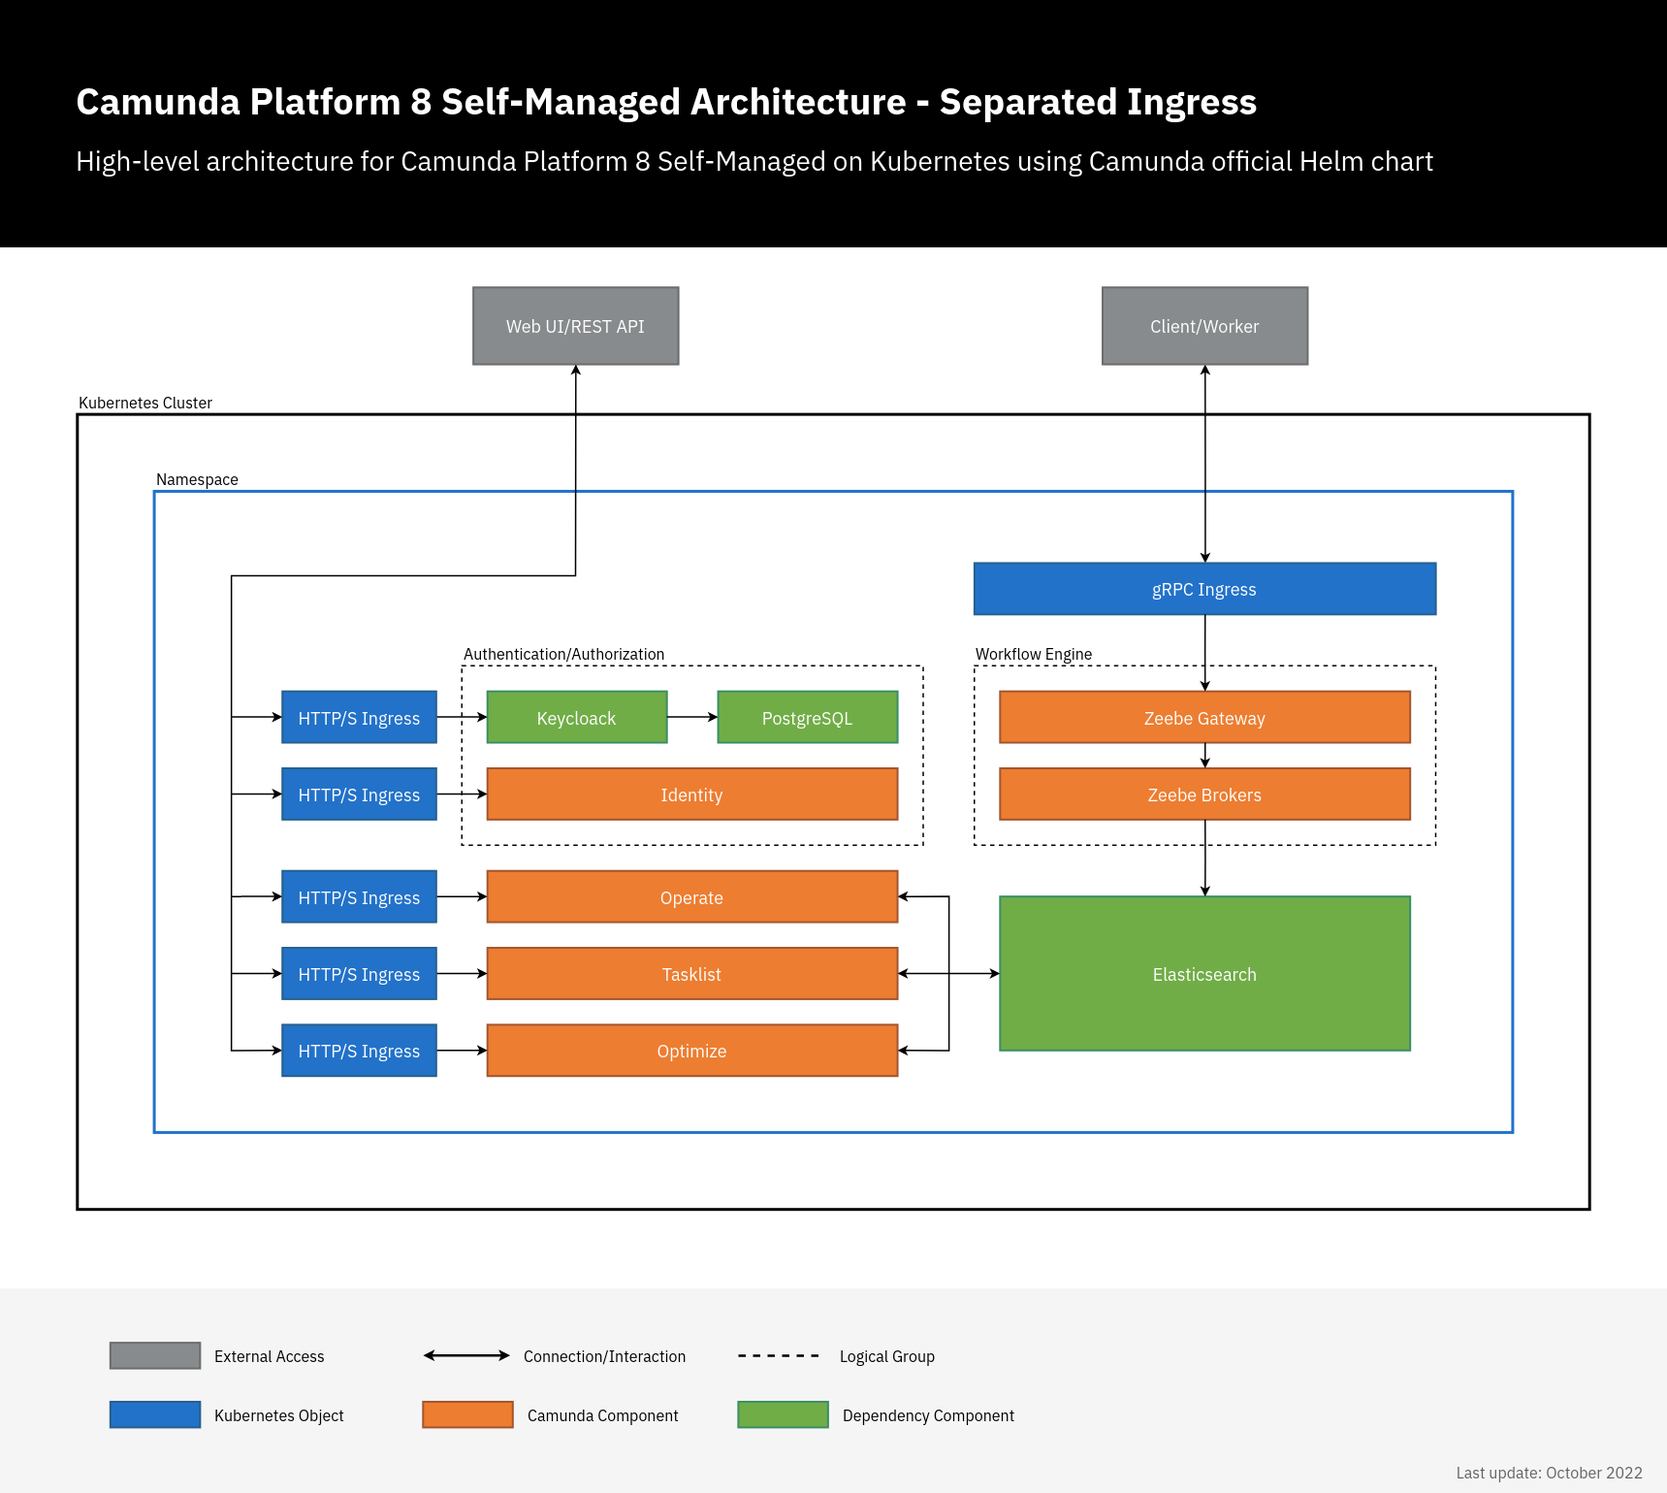
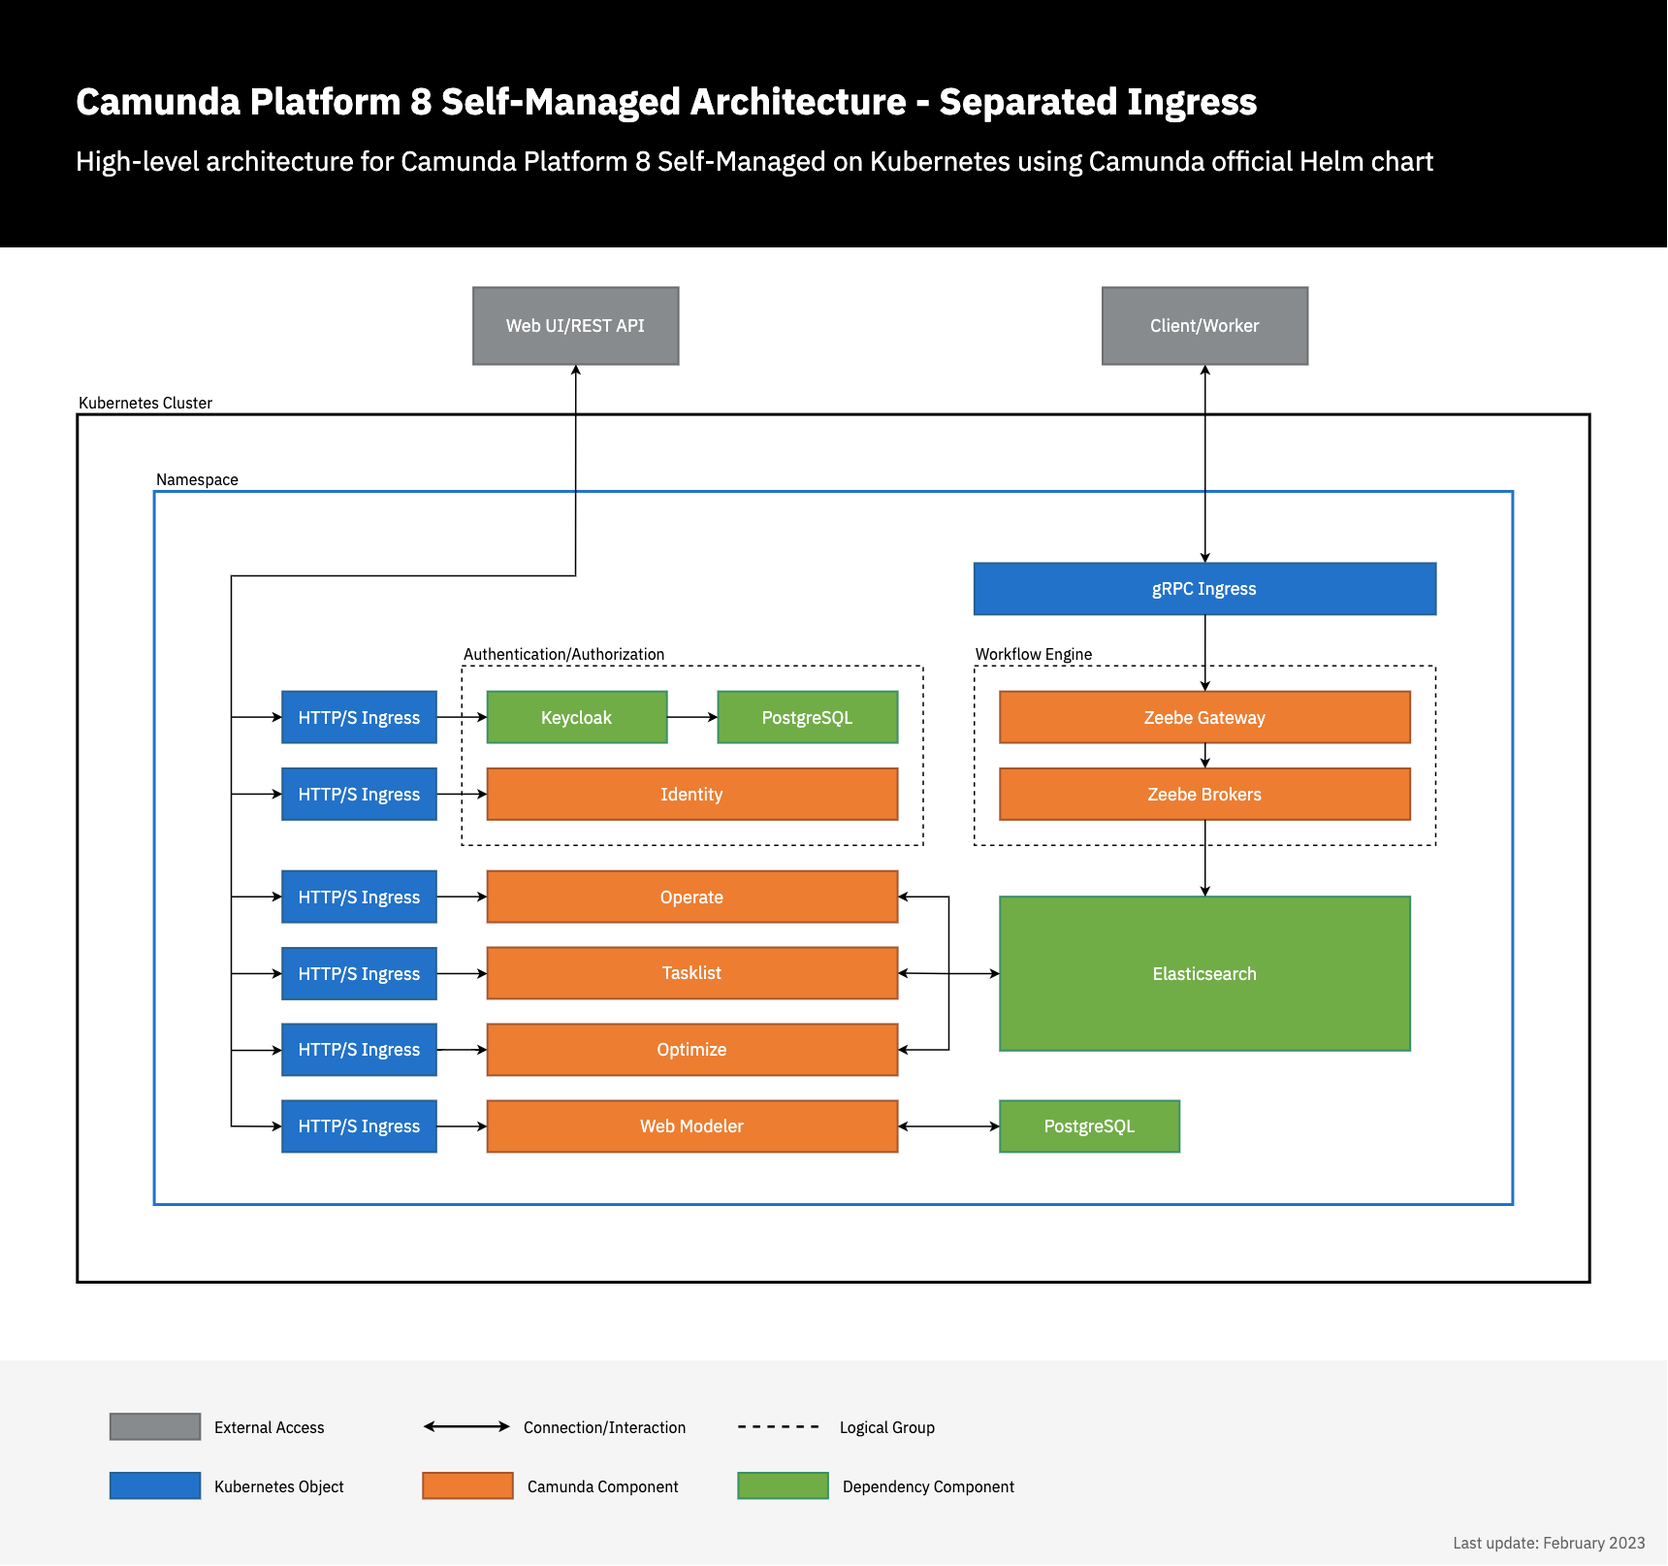
docs(self-managed): include Web Modeler in docs on Helm/Kubernetes

diff --git a/docs/self-managed/platform-deployment/helm-kubernetes/deploy.md b/docs/self-managed/platform-deployment/helm-kubernetes/deploy.md
@@ -15,18 +15,20 @@ Helm also provides dependency management between charts, meaning that charts can
 
 ## Components installed by the Helm charts
 
-By default, the following charts will be installed as part of Camunda Platform 8 Self-Managed:
+The following charts will be installed as part of Camunda Platform 8 Self-Managed:
 
-- **Zeebe**: Deploys a Zeebe Cluster with three brokers using the `camunda/zeebe` docker image.
+- **Zeebe**: Deploys a Zeebe Cluster with three brokers using the `camunda/zeebe` Docker image.
 - **Zeebe Gateway**: Deploys the standalone Zeebe Gateway with two replicas.
 - **Operate**: Deploys Operate, which connects to an existing Elasticsearch.
 - **Tasklist**: Deploys the Tasklist component to work with user tasks.
 - **Optimize**: Deploys the Optimize component to analyze the historic process executions.
 - **Identity**: Deploys the Identity component responsible for authentication and authorization.
 - **Elasticsearch**: Deploys an Elasticsearch cluster with two nodes.
+- **Web Modeler** [<span class="badge badge--beta">Beta</span>](../../../../reference/early-access#beta): Deploys the Web Modeler component that allows you to model BPMN processes in a collaborative way.
+  - _Note_: The chart is disabled by default and needs to be [enabled explicitly](#installing-web-modeler-beta).
 
-:::note Web Modeler & Connectors
-We do not provide a Helm chart for Web Modeler and Connectors in Self-Managed yet.
+:::note Connectors
+We do not provide a Helm chart for Connectors in Self-Managed yet.
 :::
 
 ![Camunda Platform 8 Self-Managed Architecture Diagram](../../platform-architecture/assets/camunda-platform-8-self-managed-architecture-diagram-combined-ingress.png)
@@ -63,16 +65,18 @@ helm install <RELEASE_NAME> camunda/camunda-platform
 ```
 
 :::note
-Change &gt;RELEASE_NAME&lt; with a name of your choice.
+Replace &lt;RELEASE_NAME&gt; with a name of your choice.
 
-Also, notice that you can add the `-n` flag to specify in which Kubernetes namespace the components should be installed.
+You can also add the `-n` flag to specify in which Kubernetes namespace the components should be installed.
+
+The command does not install Web Modeler by default. To enable Web Modeler, refer to the [installation instructions](#installing-web-modeler-beta) below.
 :::
 
 Notice that this Kubernetes cluster can have services which are already running; Camunda components are simply installed as another set of services.
 
 Installing all the components in a cluster requires all Docker images to be downloaded to the remote cluster. Depending on which Cloud provider you are using, the amount of time it will take to fetch all the images will vary.
 
-Review the progress of your deployment by checking if the Kubernetes PODs are up and running with the following:
+Review the progress of your deployment by checking if the Kubernetes pods are up and running with the following:
 
 ```
 kubectl get pods
@@ -97,7 +101,7 @@ elasticsearch-master-0                          0/1     Pending             0   
 elasticsearch-master-1                          0/1     Init:0/1            0          4s
 ```
 
-Review the progress of your deployment by checking if the Kubernetes PODs are up and running with the following:
+Review the progress of your deployment by checking if the Kubernetes pods are up and running with the following:
 
 ```
 kubectl get pods
@@ -112,6 +116,94 @@ elasticsearch-master-0                                 1/1     Running   0      
 <RELEASE_NAME>-zeebe-0                                 1/1     Running   0          4m6s
 <RELEASE_NAME>-tasklist-XXX                            1/1     Running   0          4m6s
 <RELEASE_NAME>-zeebe-gateway                           1/1     Running   0          4m6s
+```
+
+### Installing Web Modeler (Beta)
+
+:::caution Beta Offering
+Web Modeler Self-Managed is currently offered as a [beta release](../../../../reference/early-access#beta)
+with limited availability for enterprise customers only. It is not recommended for production use and there is no maintenance service guaranteed.
+Special [terms & conditions](https://camunda.com/legal/terms/camunda-platform/camunda-platform-8-self-managed/) apply.
+However, we encourage you to provide feedback via your designated support channel or the [Camunda Forum](https://forum.camunda.io/).
+:::
+
+To install the Camunda Helm chart with Web Modeler enabled, follow the steps below.
+
+#### Create image pull secret
+
+The Docker images for Web Modeler are not publicly accessible, but available to enterprise customers only from Camunda's private Docker registry.
+To enable Kubernetes to pull the images from this registry, you'll first need to [create an image pull secret](https://kubernetes.io/docs/concepts/containers/images/#specifying-imagepullsecrets-on-a-pod) using the credentials you received from Camunda:
+
+```bash
+kubectl create secret docker-registry <REGISTRY_SECRET_NAME> \
+  --docker-server=registry.camunda.cloud \
+  --docker-username=<DOCKER_USER> \
+  --docker-password=<DOCKER_PASSWORD> \
+  --docker-email=<DOCKER_EMAIL>
+```
+
+:::note
+Replace `<REGISTRY_SECRET_NAME>` with a name of your choice and `<DOCKER_USER>`, `<DOCKER_PASSWORD>`, and `<DOCKER_EMAIL>` with your credentials.
+
+The secret must be created in the same Kubernetes namespace you will install the Helm chart in. You can use the `-n` flag to specify a namespace.
+:::
+
+Alternatively, you can create an image pull secret [from your Docker configuration file](https://kubernetes.io/docs/tasks/configure-pod-container/pull-image-private-registry/#registry-secret-existing-credentials).
+
+#### Configure Web Modeler
+
+To set up Web Modeler, you need to provide the following required configuration values (all available configuration options are described in more detail in the Helm chart's [README](https://github.com/camunda/camunda-platform-helm/tree/main/charts/camunda-platform#web-modeler-beta) file):
+
+- Enable Web Modeler with `web-modeler.enabled: true` (it is disabled by default).
+- Configure the previously created [image pull secret](#create-image-pull-secret) in `web-modeler.image.pullSecrets`.
+- Configure your SMTP server by providing the values under `web-modeler.restapi.mail`.
+  - Web Modeler requires an SMTP server to send notification emails to users.
+
+We recommend to specify these values in a YAML file that you pass to the `helm install` command. A minimum configuration file would look like this:
+
+```yaml
+web-modeler:
+  enabled: true
+  image:
+    pullSecrets:
+      # replace with the name of the previously created secret
+      - name: <REGISTRY_SECRET_NAME>
+  restapi:
+    mail:
+      smtpHost: smtp.example.com
+      smtpPort: 587
+      smtpUser: user
+      smtpPassword: secret
+      # email address to be displayed as sender of emails from Web Modeler
+      fromAddress: no-reply@example.com
+```
+
+#### Optional: Configure external database
+
+Web Modeler requires a PostgreSQL database as persistent data storage (other database systems are currently not supported).
+By default, a new PostgreSQL instance will be installed as part of the Helm release (using the [PostgreSQL Helm chart](https://github.com/bitnami/charts/tree/main/bitnami/postgresql) by Bitnami as a dependency).
+Alternatively, you can configure a connection to an (existing) external database:
+
+```yaml
+web-modeler:
+  postgresql:
+    # disables the PostgreSQL chart dependency
+    enabled: false
+  restapi:
+    externalDatabase:
+      host: postgres.example.com
+      port: 5432
+      database: modeler-db
+      user: modeler-user
+      password: secret
+```
+
+#### Install the Helm chart
+
+Assuming that you have saved your configuration in `modeler-values.yaml`, you can install the Helm chart by running:
+
+```
+helm install --values modeler-values.yaml <RELEASE_NAME> camunda/camunda-platform
 ```
 
 ### Troubleshooting the installation

diff --git a/docs/self-managed/platform-deployment/helm-kubernetes/guides/air-gapped-installation.md b/docs/self-managed/platform-deployment/helm-kubernetes/guides/air-gapped-installation.md
@@ -4,7 +4,7 @@ title: "Installing in an air-gapped environment"
 description: "Camunda Platform 8 Self-Managed installation in an air-gapped environment"
 ---
 
-The [Camunda Platform Helm chart](../../helm-kubernetes/deploy.md) may assist in an air-gapped environment. By default, the Docker images are fetched via Docker Hub.
+The [Camunda Platform Helm chart](../../helm-kubernetes/deploy.md) may assist in an air-gapped environment. By default, the Docker images are fetched via Docker Hub (except for [Web Modeler Beta](../../docker.md#web-modeler)).
 With the dependencies in third-party Docker images and Helm charts, additional steps are required to make all charts available as outlined in this resource.
 
 ## Required Docker images
@@ -19,6 +19,10 @@ The following images must be available in your air-gapped environment:
 - [postgres](https://hub.docker.com/_/postgres)
 - [bitnami/keycloak](https://hub.docker.com/r/bitnami/keycloak)
 - [elasticsearch](https://hub.docker.com/_/elasticsearch)
+- Web Modeler images (only available from [Camunda's private registry](../../docker.md#web-modeler)):
+  - `web-modeler-ee/modeler-restapi`
+  - `web-modeler-ee/modeler-webapp`
+  - `web-modeler-ee/modeler-websockets`
 
 ## Required Helm charts
 
@@ -44,9 +48,12 @@ camunda-platform
     |_ optimize
     |_ operate
     |_ tasklist
+    |_ web-modeler
+        |_ postgresql
 ```
 
 - Keycloak is a dependency for Camunda Identity and PostgreSQL is a dependency for Keycloak.
+- PostgreSQL is an optional dependency for Web Modeler.
 - Elasticsearch is a dependency for Zeebe, Operate, Tasklist, and Optimize.
 
 The values for the dependencies Keycloak and PostgreSQL can be set in the same hierarchy:
@@ -58,6 +65,10 @@ identity:
     [keycloak values]
     postgresql:
       [postgresql values]
+web-modeler:
+  [web-modeler values]
+  postgresql:
+    [postgresql values]
 ```
 
 ## Push Docker images to your repository
@@ -133,6 +144,25 @@ optimize:
   image:
     repository: example.jfrog.io/camunda/optimize
     ...
+web-modeler:
+  image:
+    # registry and tag will be used for all three Web Modeler images
+    registry: example.jfrog.io
+    tag: latest
+  restapi:
+    image:
+      repository: camunda/modeler-restapi
+  webapp:
+    image:
+      repository: camunda/modeler-webapp
+  websockets:
+    image:
+      repository: camunda/modeler-websockets
+  # only necessary if the PostgreSQL chart dependency is used for Web Modeler
+  postgresql:
+    image:
+      repository: example.jfrog.io/bitnami/postgres
+  ...
 ```
 
 Afterwards, you can deploy Camunda Platform using Helm and the custom values file.

diff --git a/docs/self-managed/platform-deployment/helm-kubernetes/guides/ingress-setup.md b/docs/self-managed/platform-deployment/helm-kubernetes/guides/ingress-setup.md
@@ -24,6 +24,10 @@ Camunda Platform 8 Helm chart doesn't manage or deploy Ingress controllers, it o
 
 In this setup, a single Ingress/domain is used to access Camunda Platform 8 web applications, and another for Zeebe Gateway. By default, all web applications use `/` as a base, so we just need to set the context path, Ingress configuration, and authentication redirect URLs.
 
+:::caution Web Modeler
+The combined Ingress setup does not support Web Modeler yet. To enable external access to Web Modeler, you'll need to set up a [separate Ingress](#separated-ingress-setup).
+:::
+
 ![Camunda Platform 8 Self-Managed Architecture Diagram - Combined Ingress](../../../platform-architecture/assets/camunda-platform-8-self-managed-architecture-diagram-combined-ingress.png)
 
 ```yaml
@@ -107,6 +111,8 @@ global:
         redirectUrl: "https://tasklist.camunda.example.com"
       optimize:
         redirectUrl: "https://optimize.camunda.example.com"
+      webModeler:
+        redirectUrl: "https://modeler.camunda.example.com"
 
 identity:
   ingress:
@@ -144,7 +150,20 @@ zeebe-gateway:
     enabled: true
     className: nginx
     host: "zeebe.camunda.example.com"
+
+web-modeler:
+  ingress:
+    enabled: true
+    className: nginx
+    webapp:
+      host: "modeler.camunda.example.com"
+    websockets:
+      host: "modeler-ws.camunda.example.com"
 ```
+
+:::note Web Modeler
+The configuration above only contains the Ingress-related values under `web-modeler`. Please note the additional [installation instructions and configuration hints](../../helm-kubernetes/deploy.md#installing-web-modeler-beta).
+:::
 
 Using the custom values file, [deploy Camunda Platform 8 as usual](../../helm-kubernetes/deploy.md):
 
@@ -154,7 +173,7 @@ helm install demo camunda/camunda-platform -f values-separated-ingress.yaml
 
 Once deployed, you can access the Camunda Platform 8 components on:
 
-- **Web applications:** `https://[identity|operate|optimize|tasklist].camunda.example.com`
+- **Web applications:** `https://[identity|operate|optimize|tasklist|modeler].camunda.example.com`
 - **Keycloak authentication:** `https://keycloak.camunda.example.com`
 - **Zeebe Gateway:** `grpc://zeebe.camunda.example.com`
 

diff --git a/docs/self-managed/platform-deployment/helm-kubernetes/guides/accessing-components-without-ingress.md b/docs/self-managed/platform-deployment/helm-kubernetes/guides/accessing-components-without-ingress.md
@@ -29,7 +29,8 @@ Accessing the Zeebe cluster directly using `kubectl port-forward` is recommended
 To interact with Camunda Platform web applications like Operate, Tasklist, and Optimize, also `kubectl port-forward` will be used.
 
 :::note
-To use the web applications without Camunda Identity, you should setting `global.identity.auth.enabled: false` in the values file to disable the authentication mechanism.
+To use the web applications without Camunda Identity, you can set `global.identity.auth.enabled: false` in the values file to disable the authentication mechanism.
+Do _not_ disable it if you like to use Web Modeler, as it requires Camunda Identity and Keycloak.
 :::
 
 First, port-forward for each application service:
@@ -42,11 +43,26 @@ kubectl port-forward svc/<RELEASE_NAME>-tasklist 8082:80
 kubectl port-forward svc/<RELEASE_NAME>-optimize 8083:80
 ```
 
-Then, you can access each app pointing your browser at:
+To be able to use Web Modeler, create additional port-forwardings for Web Modeler itself and Keycloak (assuming that Keycloak is installed as part of the Helm release):
+
+```
+kubectl port-forward svc/<RELEASE_NAME>-web-modeler-webapp 8084:80
+
+kubectl port-forward svc/<RELEASE_NAME>-web-modeler-websockets 8085:80
+
+kubectl port-forward svc/<RELEASE_NAME>-keycloak 18080:80
+```
+
+:::note
+The name of the Keycloak service will be truncated after 20 characters if Keycloak 16 is used, for example: `svc/long-release-name-ke`
+:::
+
+Finally, you can access each app pointing your browser at:
 
 - Operate: [http://localhost:8081](http://localhost:8081)
 - Tasklist: [http://localhost:8082](http://localhost:8082)
 - Optimize: [http://localhost:8083](http://localhost:8083)
+- Web Modeler: [http://localhost:8084](http://localhost:8084)
 
 Log in to these services using the `demo`/`demo` credentials.
 

diff --git a/docs/self-managed/modeler/web-modeler/configuration.md b/docs/self-managed/modeler/web-modeler/configuration.md
@@ -12,7 +12,9 @@ However, we encourage you to provide feedback via your designated support channe
 :::
 
 The different components of Web Modeler Self-Managed can be configured using environment variables. Each component's variables are described below.
-For a working example configuration, that shows how the components are correctly wired together, see the [Docker Compose file for Web Modeler](../../../platform-deployment/docker#web-modeler-1).
+
+- For a working example configuration, that shows how the components are correctly wired together, see the [Docker Compose file for Web Modeler](../../../platform-deployment/docker#web-modeler-1).
+- If you are using the Camunda Platform 8 [Helm chart](../../platform-deployment/helm-kubernetes/deploy.md) to set up Web Modeler, read more about the different configuration options in the chart's [README file](https://github.com/camunda/camunda-platform-helm/blob/main/charts/camunda-platform/README.md#web-modeler-beta).
 
 ### Configuration of the `restapi` component
 

diff --git a/docs/self-managed/platform-architecture/overview.md b/docs/self-managed/platform-architecture/overview.md
@@ -19,7 +19,11 @@ In this architecture, Camunda Platform 8 Self-Managed can be accessed as follows
 - Keycloak authentication: `https://camunda.example.com/auth`
 - Zeebe gateway: `grpc://zeebe.camunda.example.com`
 
-It's also possible to set up an Ingress for each component. For more details, visit our [combined and separated Ingress set up guide](../platform-deployment/helm-kubernetes/guides/ingress-setup.md).
+It's also possible to set up an Ingress for each component. For more details, visit our [combined and separated Ingress setup guide](../platform-deployment/helm-kubernetes/guides/ingress-setup.md).
+
+:::caution Web Modeler
+The combined Ingress setup does not support Web Modeler yet. To enable external access to Web Modeler, you'll need to set up a [separate Ingress](../platform-deployment/helm-kubernetes/guides/ingress-setup.md#separated-ingress-setup) using a subdomain (e.g. `https://modeler.camunda.example.com`).
+:::
 
 ## Deployment
 

diff --git a/docs/self-managed/modeler/web-modeler/installation.md b/docs/self-managed/modeler/web-modeler/installation.md
@@ -11,5 +11,4 @@ Special [terms & conditions](https://camunda.com/legal/terms/camunda-platform/ca
 However, we encourage you to provide feedback via your designated support channel or the [Camunda Forum](https://forum.camunda.io/).
 :::
 
-Currently, we support an installation of Web Modeler Self-Managed with Docker and Docker Compose.
-Refer to the [installation guide](../../platform-deployment/docker.md#web-modeler) for more details.
+Please refer to the [Installation Guide](../../platform-deployment/overview.md) for details on how to install Web Modeler.

diff --git a/docs/self-managed/platform-deployment/helm-kubernetes/platforms/platforms.md b/docs/self-managed/platform-deployment/helm-kubernetes/platforms/platforms.md
@@ -12,3 +12,7 @@ import {useCurrentSidebarCategory} from '@docusaurus/theme-common';
 In addition to Stock Kubernetes (which could be deployed on cloud or on-premise), Camunda only officially tests and supports the following platforms:
 
 <DocCardList items={useCurrentSidebarCategory().items}/>
+
+:::caution Web Modeler
+We currently offer no dedicated support for these cloud platforms for Web Modeler Beta.
+:::
